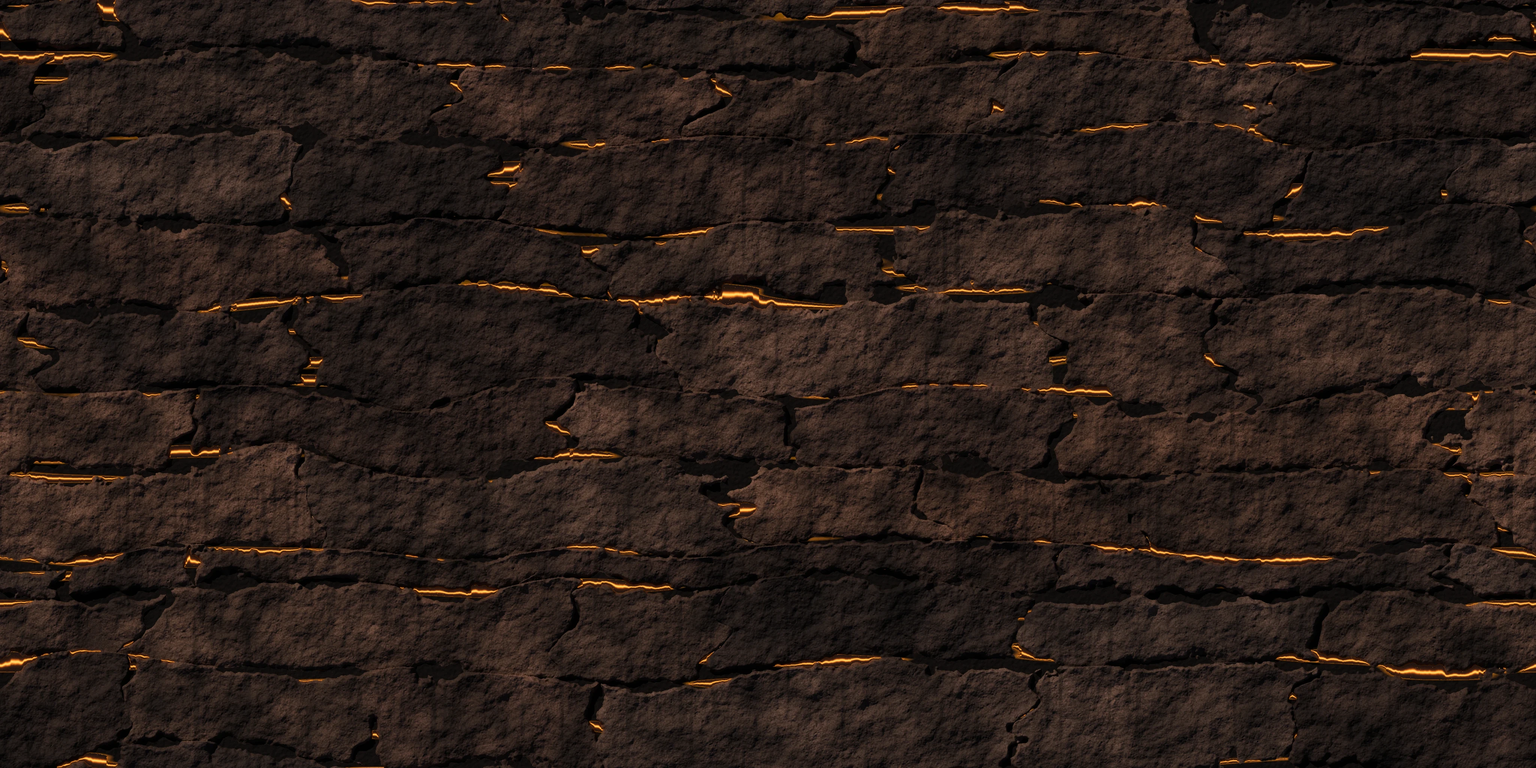
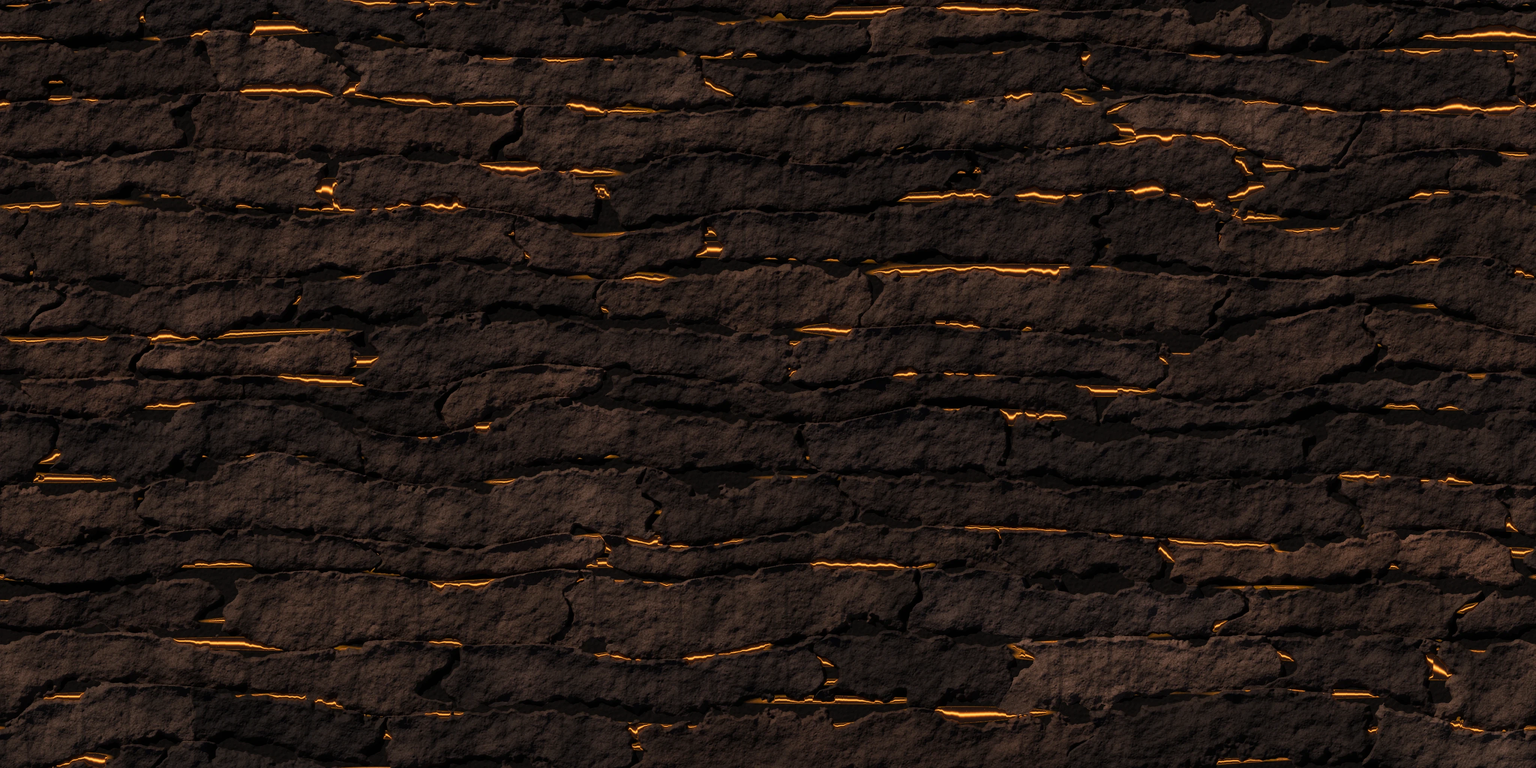
Версия 2026.10.19-82: базальт вулкана заново в Blender — чёткие плиты с карнизами и глубокими швами, расплав в швах; плющ и на башне долины
Claude-Session: https://claude.ai/code/session_01JvXrYdG1XCH4i3GESsQzbh

Changed region(s): [[0.0, 0.0, 1.0, 1.0], [0.3125, 0.0, 0.3438, 0.0312], [0.125, 0.9375, 0.1562, 0.9688]]

diff --git a/js/terrain_visual.js b/js/terrain_visual.js
@@ -1337,7 +1337,7 @@ function drawSurfaceDetails(T, theme, seed, waterY, tops, ceils, mat, backArr) {
       if (surface) surface.sprite(IV.canvas, 'ivy');
       ivShadow = makeCanvas(IV.w, IV.h); const sx = ivShadow.getContext('2d'); sx.drawImage(IV.canvas, 0, 0); sx.globalCompositeOperation = 'source-in'; sx.fillStyle = '#0c0a08'; sx.fillRect(0, 0, IV.w, IV.h);
     }
-    const castle = theme.id === 'castle', IS = castle ? 1.55 : 1.2, freeBelow = (x, y) => { let f = 0; for (let q = 3; q <= 140; q += 2) { const yy = y + q, solid = T.isSolid(x, yy); if (solid ? matAt(x, yy) !== 3 : !(castle && backArr && backArr[yy * W + x] === 3)) break; f = q; } return f; };   /* у замков плеть свисает и по задней каменной стене помещений */   // IS — масштаб плетей
+    const castle = theme.id === 'castle' || theme.id === 'valley', IS = castle ? 1.55 : 1.2,   /* r32: и башня долины (эталон — плющ ~15 % кладки) */ freeBelow = (x, y) => { let f = 0; for (let q = 3; q <= 140; q += 2) { const yy = y + q, solid = T.isSolid(x, yy); if (solid ? matAt(x, yy) !== 3 : !(castle && backArr && backArr[yy * W + x] === 3)) break; f = q; } return f; };   /* у замков плеть свисает и по задней каменной стене помещений */   // IS — масштаб плетей
     for (let k = 0; IV && k < tops.length; k += 2) {
       const x = tops[k], y = tops[k + 1];
       if (matAt(x, y + 2) !== 3 || y > waterY - 8 || x - lastX < gap) continue;

diff --git a/index.html b/index.html
@@ -114,7 +114,7 @@
         </div>
       </div>
     </div>
-    <footer class="menu-footer"><span id="game-version">ВЕРСИЯ 2026.10.19-81</span><span>ПЛАНИРУЙ ХОД. МЕНЯЙ ЛАНДШАФТ.</span><span class="footer-status"><i></i> ГОТОВ К БОЮ</span></footer>
+    <footer class="menu-footer"><span id="game-version">ВЕРСИЯ 2026.10.19-82</span><span>ПЛАНИРУЙ ХОД. МЕНЯЙ ЛАНДШАФТ.</span><span class="footer-status"><i></i> ГОТОВ К БОЮ</span></footer>
   </section>
 
   <!-- Онлайн -->

diff --git a/dev/blender/make_masonry.py b/dev/blender/make_masonry.py
@@ -65,8 +65,9 @@ STYLES = {
                    light=dict(col=(0.82, 0.88, 1.0), elev=32, energy=4.2)),
     # вулкан (критик r26–27: нет крупных плит, лава — пятна): базальтовые плиты 30–70 × 90–260 ед., в трети швов —
     # светящийся расплав (свечение в Blender → слой свечения игры), тёплый свет снизу
-    'basalt': dict(name='rock_volcano', seed=71, T=1024, TY=512, hr=(30, 70), wr=(70, 320), joint=2.4, bev=3.0, recess=3.0, tilt=0.8,
-                   slant=(8, 32), ledge=3.0, mottk=0.22,
+    # r32 → v82: «порода размыта, ярусов нет» — плиты 26–46 ед. с выраженным карнизом (светлая верхняя фаска) и глубокими швами
+    'basalt': dict(name='rock_volcano', seed=71, T=1024, TY=512, hr=(26, 46), wr=(90, 360), joint=3.0, bev=3.4, recess=3.8, tilt=0.9,
+                   slant=(4, 16), ledge=4.6, mottk=0.16,
                    stone=[(60, 46, 40), (52, 40, 35), (68, 52, 44), (46, 36, 32), (62, 48, 41)],
                    mortar=(20, 14, 12), lichen=0.0, moss=0.0, wob=2.8, rough=1.7, warp=(6.5, 5.5),
                    lava=dict(thr=0.55, col=(255, 116, 28)), emit=0.45,

diff --git a/dev/tools/volcano_lava_cracks.py b/dev/tools/volcano_lava_cracks.py
@@ -27,12 +27,13 @@ def main():
     ap.add_argument('--core', type=float, default=0.34)
     ap.add_argument('--dark', type=float, default=1.0)
     ap.add_argument('--seed', type=int, default=5)
+    ap.add_argument('--src', default=None, help='исходная родная (по умолчанию — резервная копия dev/tex-backup/<имя>_native.webp)')
     a = ap.parse_args()
     nat = ROOT / 'assets/tex/native' / f'{a.name}.webp'
     bak = ROOT / 'dev/tex-backup' / f'{a.name}_native.webp'
     if not bak.exists():
         bak.parent.mkdir(parents=True, exist_ok=True); shutil.copy(nat, bak)
-    img = np.asarray(Image.open(bak).convert('RGB')).astype(np.float32)
+    img = np.asarray(Image.open(a.src or bak).convert('RGB')).astype(np.float32)
     H, W, _ = img.shape
     R, G, B = img[..., 0], img[..., 1], img[..., 2]
     lava = (R > 140) & (R - B > 55) & (G > 70)
